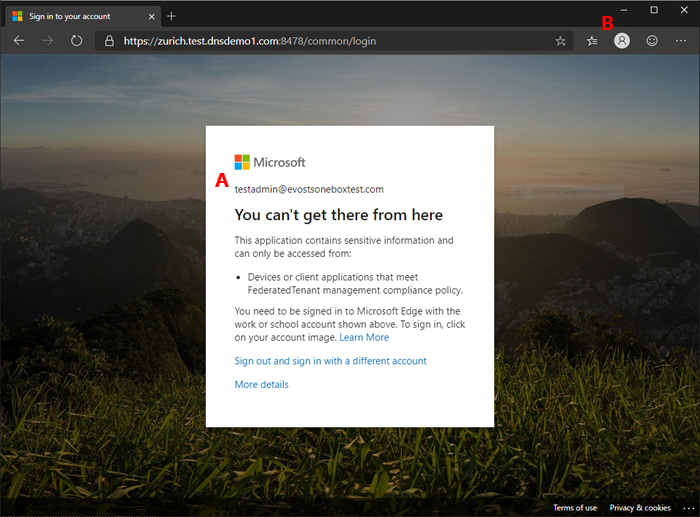
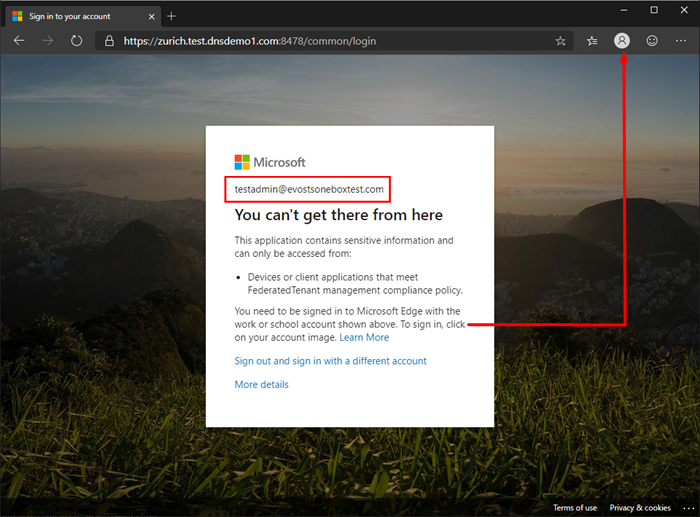
change screenshot

Changed region(s): [[0.66, 0.0928, 0.9, 0.6499], [0.3, 0.3404, 0.57, 0.4023], [0.84, 0.0309, 0.9, 0.0619]]

diff --git a/edgeenterprise/security-overview.md b/edgeenterprise/security-overview.md
@@ -27,13 +27,13 @@ A key aspect of cloud security is identity and access when it comes to managing 
 
 Microsoft Edge natively supports Azure AD Conditional Access. There's no need to install a separate extension. When you’re signed into a Microsoft Edge profile with enterprise AAD credentials, Microsoft Edge allows seamless access to enterprise cloud resources protected using Conditional Access.
 
-On a compliant device, the identity accessing the resource should match the identity on the profile.  If it doesn't, you'll see the message in the next screenshot. In the browser screenshot, "**A**" shows the sign-in account needed to access the resource.
+On a compliant device, the identity accessing the resource should match the identity on the profile.  If it doesn't, you'll see a message like the one in the next screenshot. In the screenshot example, "testadmin@evostsoneboxtest.com" is the sign-in account needed to access the resource.
 
 ![Conditional access message in browser](./media/edge-security/microsoft-edge-security-conditional-access.png)
 
 To continue, you have to switch to the right profile (if you have one) or create a profile with matching identity.
 
-To work with your profile, click the account picture ("**B**" in browser screenshot) in the top right corner of the browser. You can use the dropdown menu to:
+To sign in and work with your profile, click the account picture in the top right corner of the browser. You can use the dropdown menu to:
 
 - Select another profile. Click the profile name.
 - Create a profile. Click **Add a profile**.
